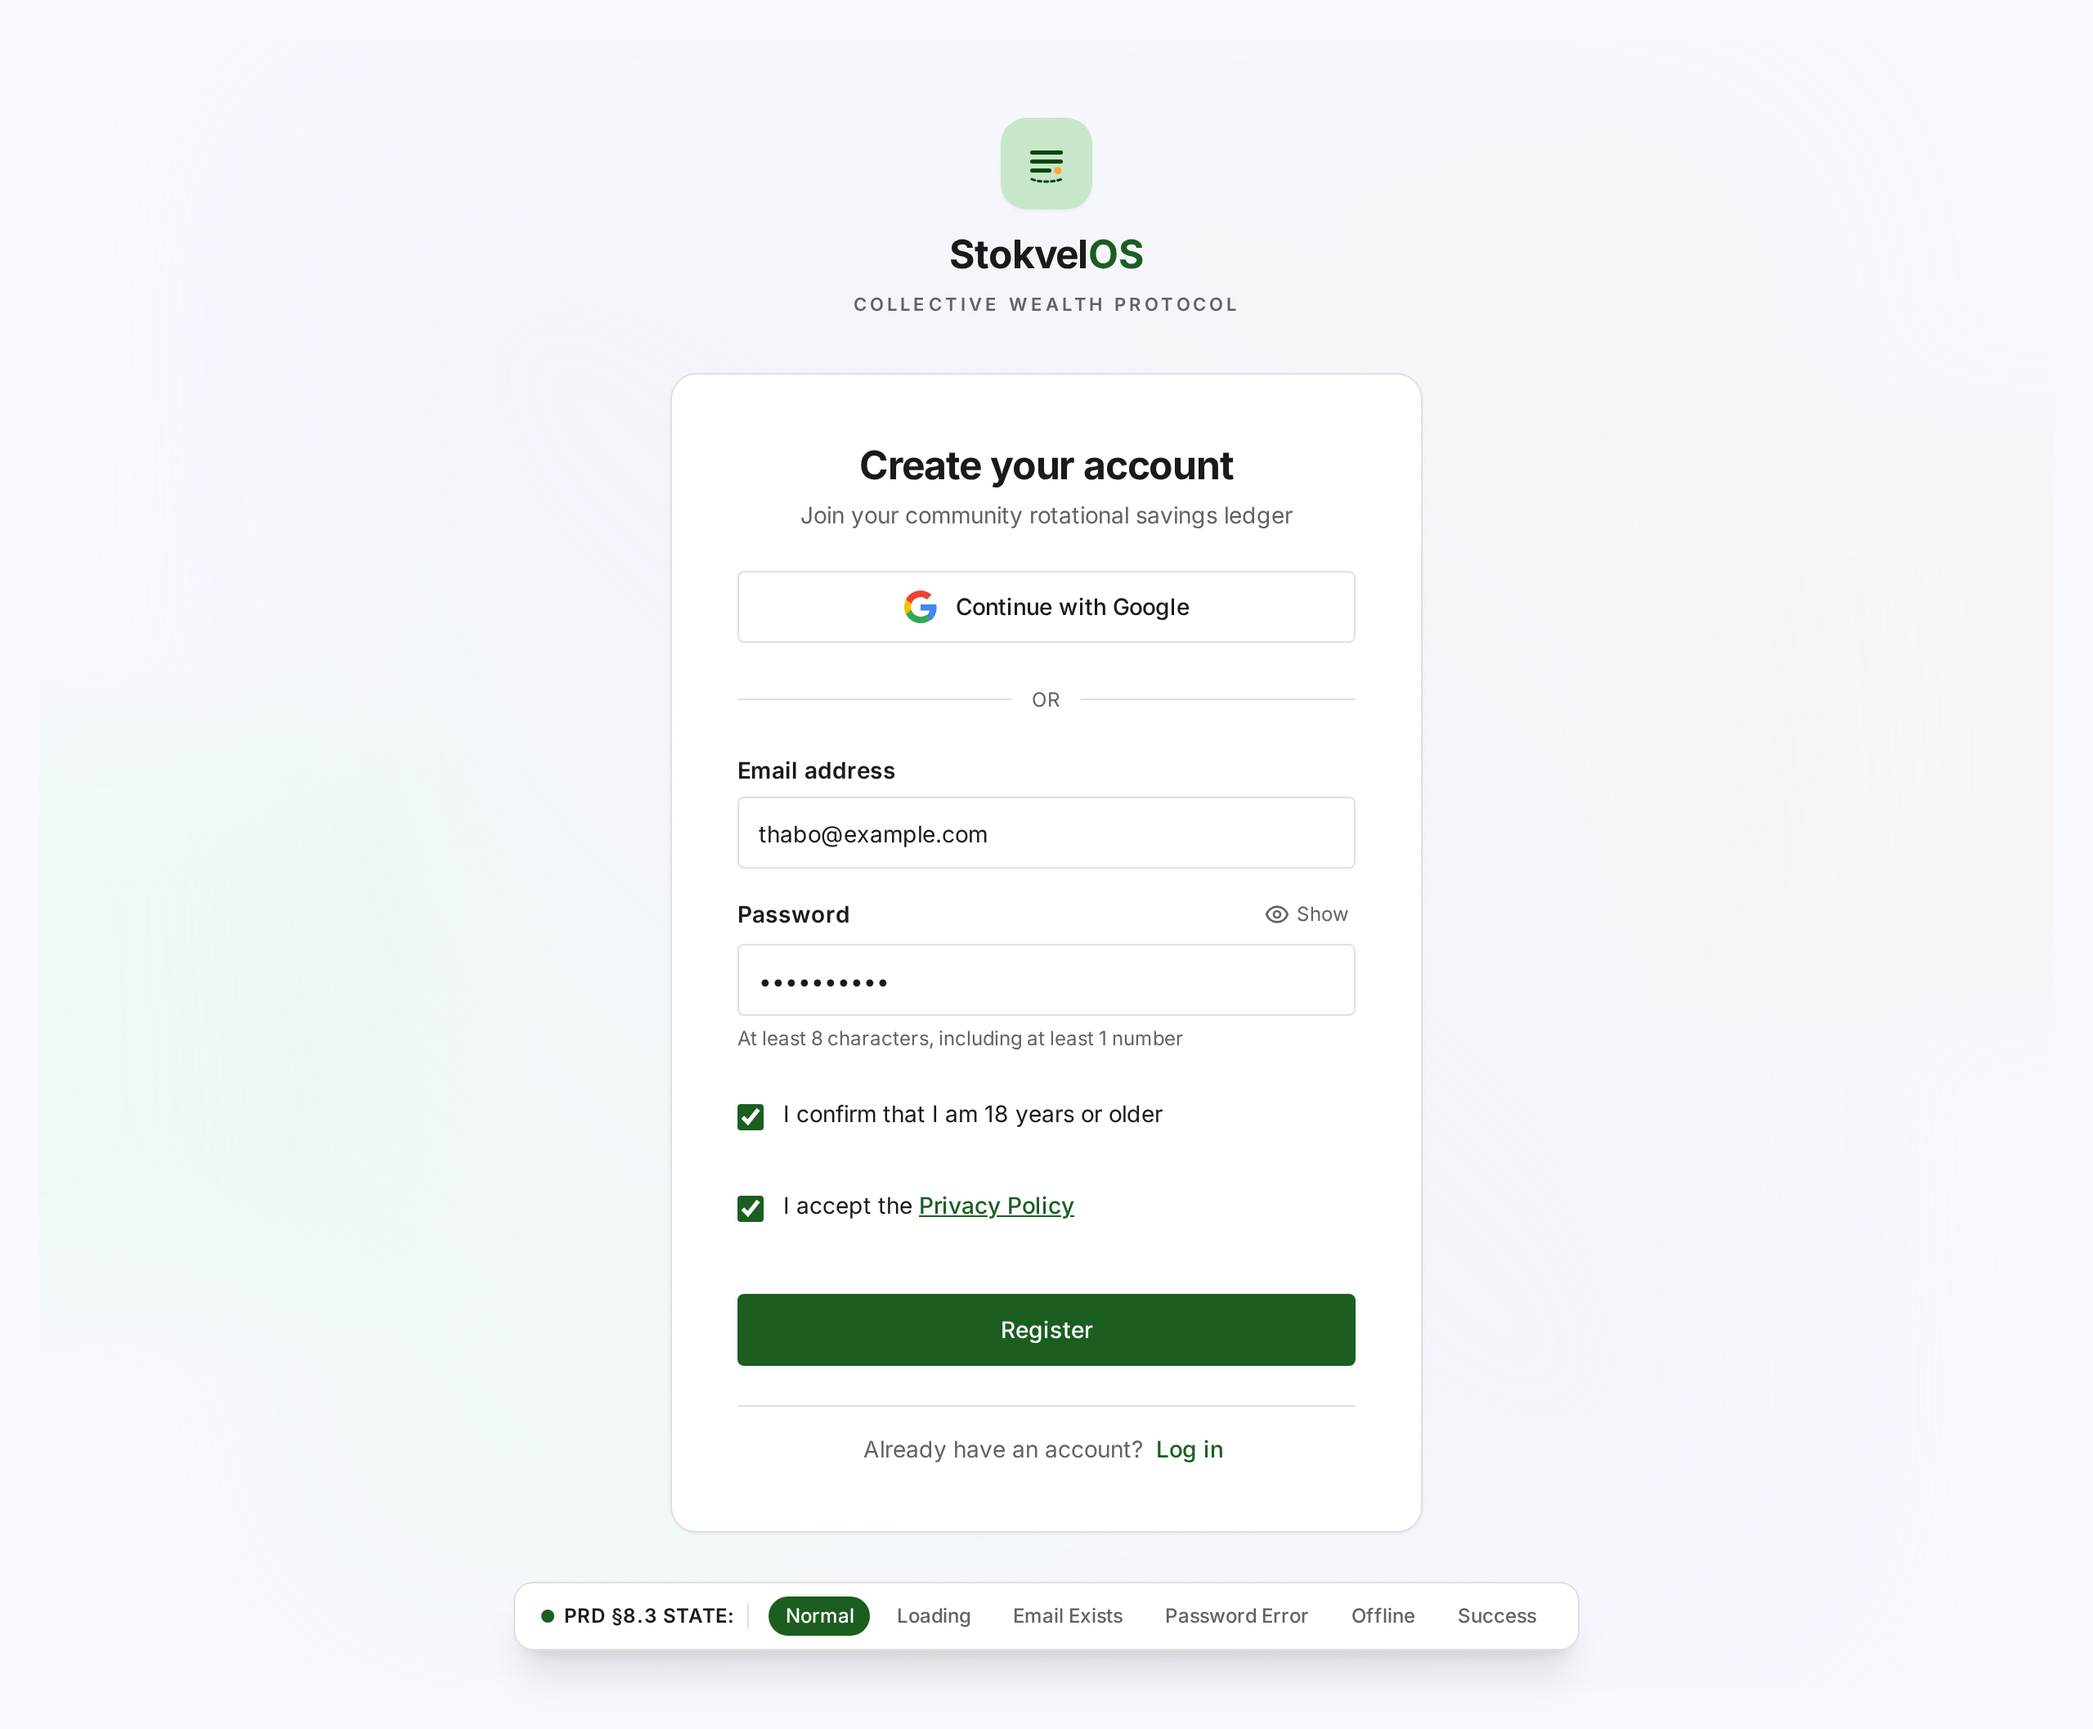
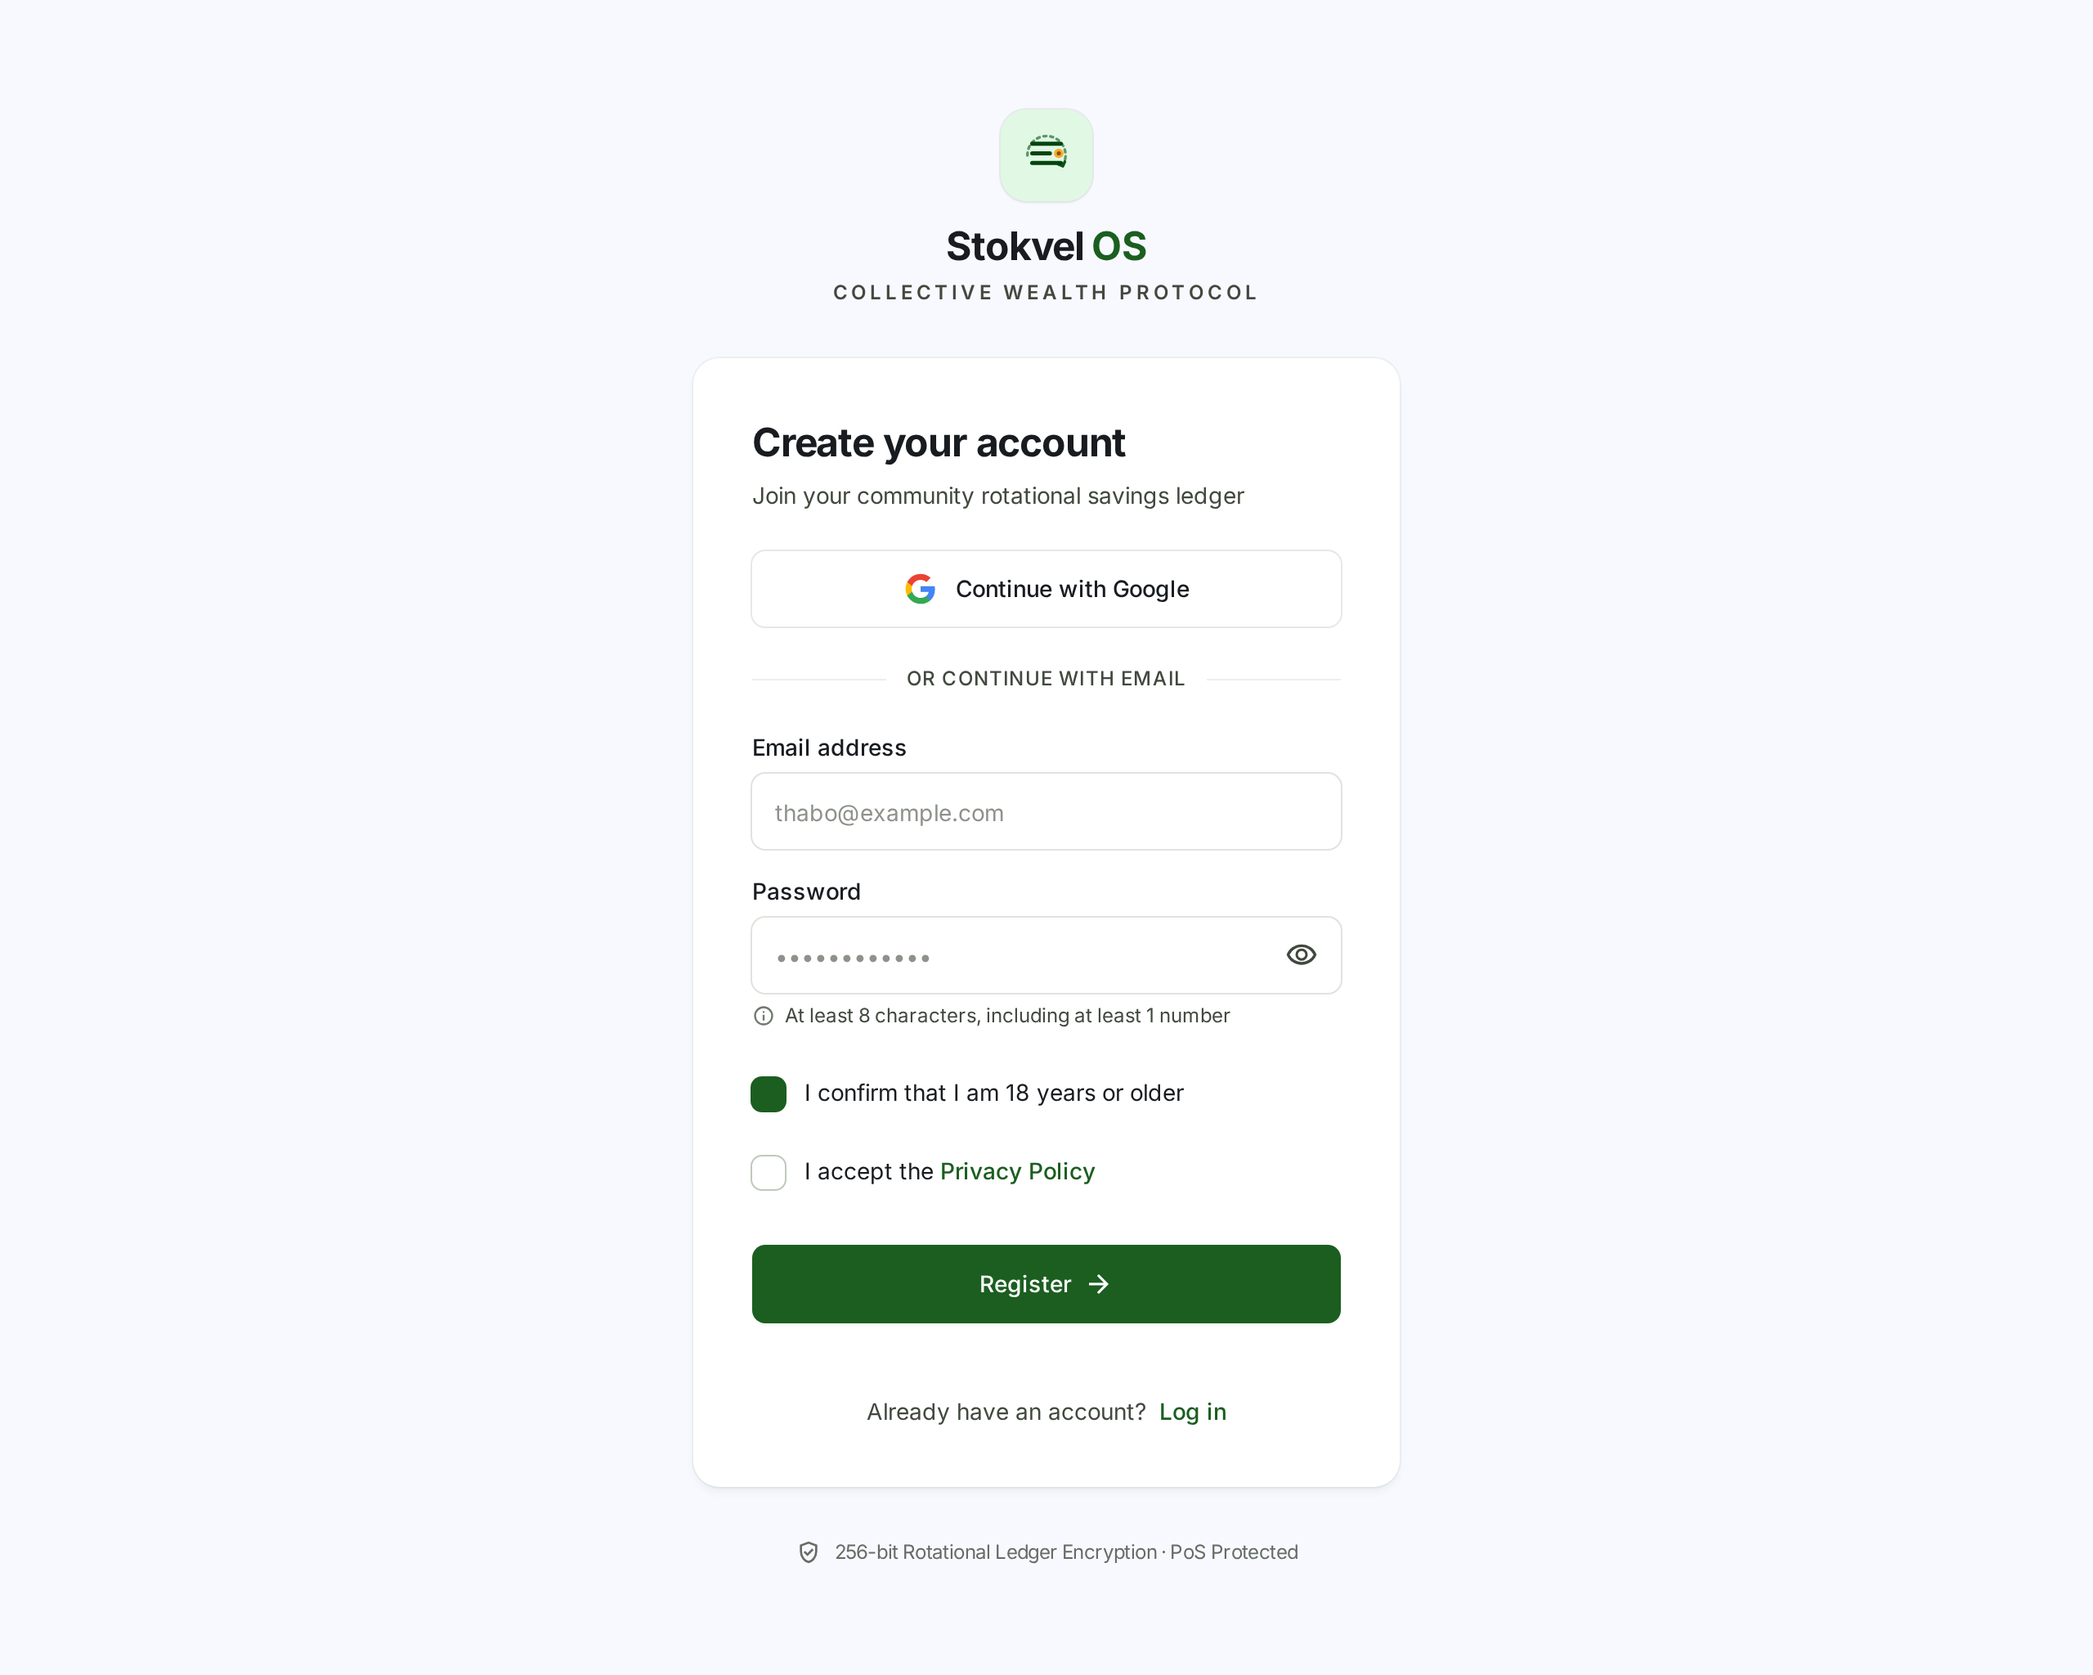
fix(design): remove preview harnesses from 15 screen exports
Regenerated S2-S4, S7-S10, S12-S13 and M2-M7 as clean single-state desktop screens. Re-exported the PNGs, kept the Stitch board at 20 visible screens, and corrected the canvas dimensions in the export table.

diff --git a/docs/designs/README.md b/docs/designs/README.md
@@ -6,27 +6,27 @@ Source project: https://stitch.google.com/projects/9928979343368528728
 
 ## Current export
 
-Re-exported 2026-11-25 from the 20 final Stitch screens at full desktop canvas width (2560 px, height varies by content). All use the identical R2-B “Refined ledger” mark and wordmark.
+Re-exported 2026-11-25 from the 20 final Stitch screens at full desktop canvas width (2560 px, height varies by content). All are clean single-state renders with no preview harness or debug annotations, and all use the identical R2-B “Refined ledger” mark and wordmark.
 
 | File | Stitch screen | Canvas |
 | --- | --- | --- |
 | `S1.png` | Welcome | 2560 × 2048 |
-| `S2.png` | Sign Up | 2560 × 2114 |
+| `S2.png` | Sign Up | 2560 × 2048 |
 | `S3.png` | Log In | 2560 × 2048 |
-| `S4.png` | My Stokvels | 2560 × 2048 |
+| `S4.png` | My Stokvels | 2560 × 2768 |
 | `S5.png` | Create Stokvel | 2560 × 2782 |
 | `S6.png` | Join via Invite | 2560 × 2048 |
-| `S7.png` | Stokvel Home | 2560 × 2422 |
-| `S8.png` | Contributions Ledger | 2560 × 2578 |
-| `S9.png` | Payouts | 2560 × 2048 |
-| `S10.png` | Members | 2560 × 2904 |
+| `S7.png` | Stokvel Home | 2560 × 2668 |
+| `S8.png` | Contributions Ledger | 2560 × 2754 |
+| `S9.png` | Payouts | 2560 × 2762 |
+| `S10.png` | Members | 2560 × 2902 |
 | `S11.png` | Audit Log | 2560 × 2928 |
-| `S12.png` | Stokvel Settings | 2560 × 2880 |
-| `S13.png` | Profile/Settings | 2560 × 2584 |
+| `S12.png` | Stokvel Settings | 2560 × 3072 |
+| `S13.png` | Profile/Settings | 2560 × 2816 |
 | `M1.png` | Record Contribution Modal | 2560 × 2048 |
 | `M2.png` | Schedule Payout Modal | 2560 × 2048 |
 | `M3.png` | Mark Payout Paid Modal | 2560 × 2048 |
-| `M4.png` | Delete Account Modal | 2560 × 2048 |
+| `M4.png` | Delete Account Modal | 2560 × 2372 |
 | `M5.png` | Invite Member Modal | 2560 × 2048 |
 | `M6.png` | Remove Member Modal | 2560 × 2048 |
 | `M7.png` | Raise Dispute Modal | 2560 × 2048 |
